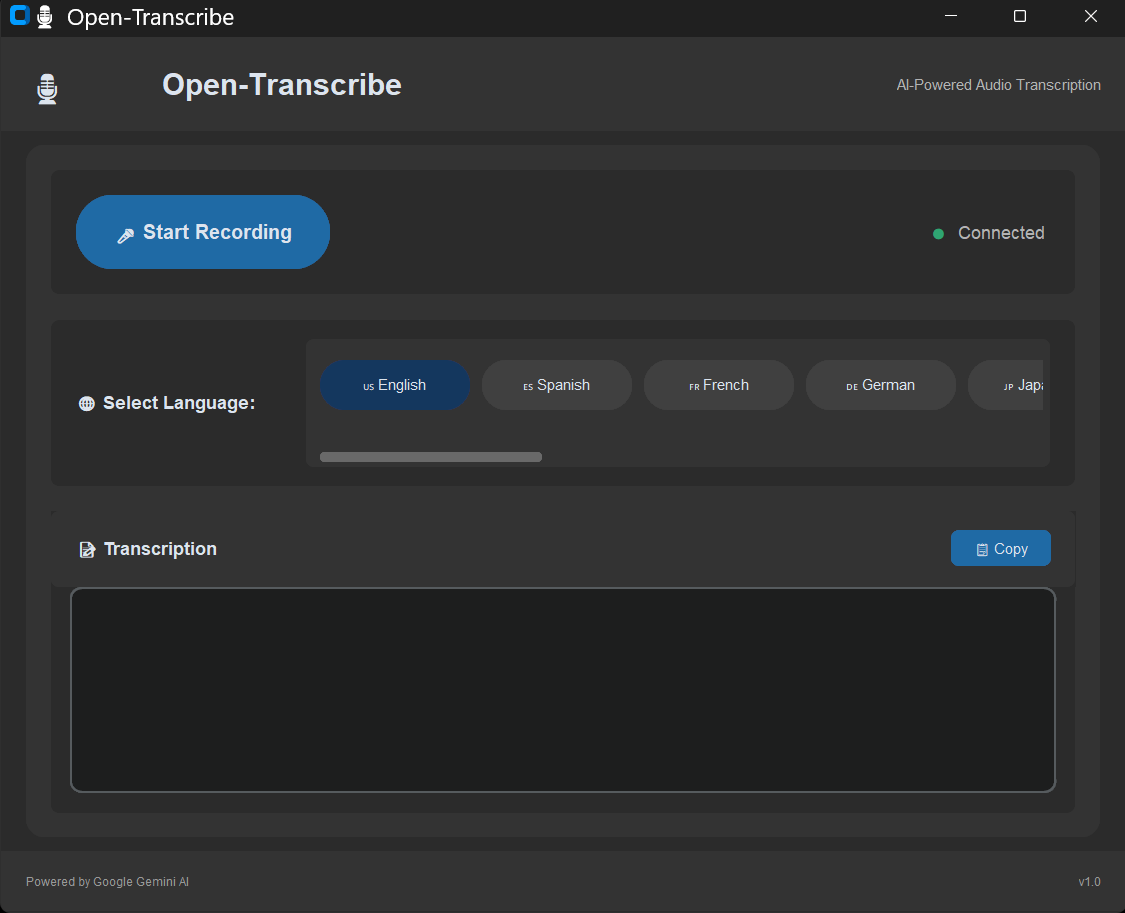
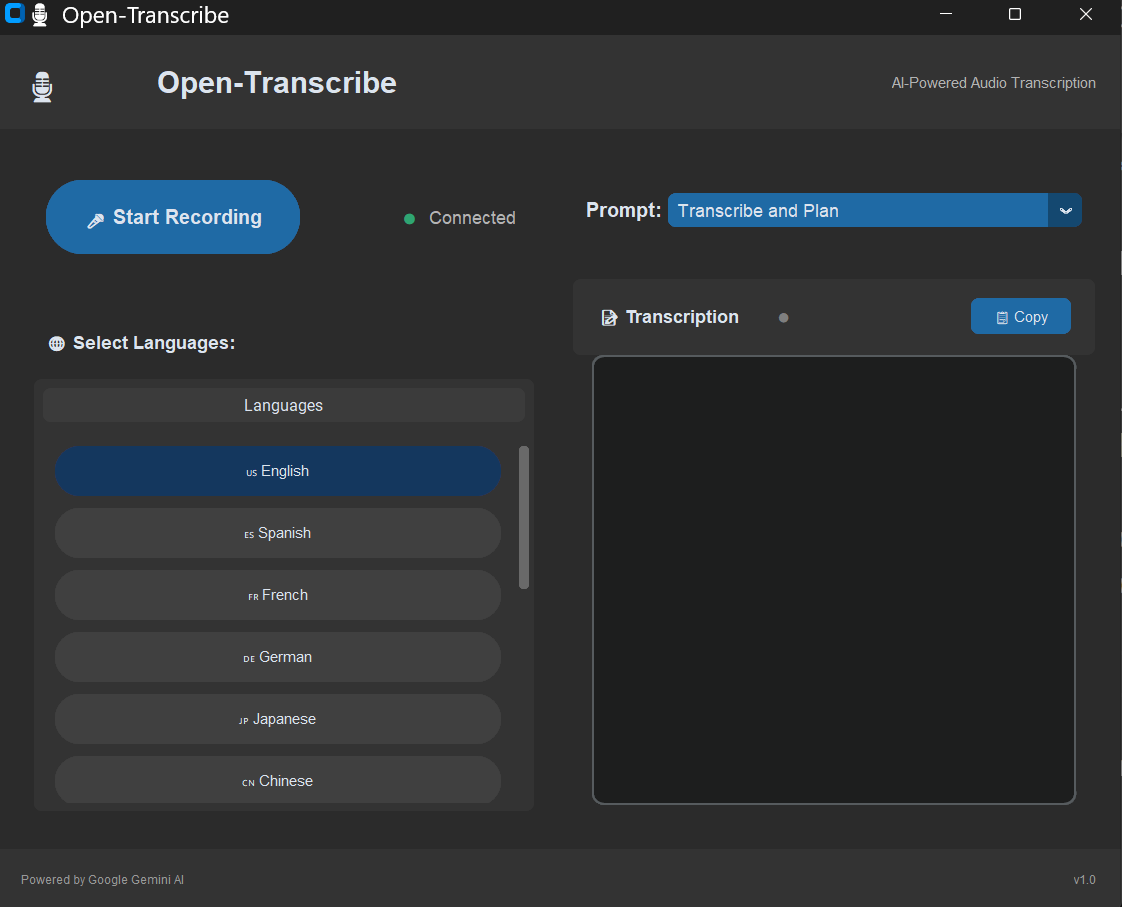
update

diff --git a/README.md b/README.md
@@ -8,11 +8,11 @@
 
 **We've supercharged your transcription experience!** 🎉
 
+🎯 **Dual Modes** - Choose between **Transcribe** for real-time transcription or **Transcribe and Plan** for transcription plus an organized version of the transcription in form of a plan.
+
 ✨ **Sleek New Interface** - Enjoy a fresh, modern design that's as beautiful as it is functional
 
-🌍 **Multi-Language Mastery** - Now supporting multiple languages! Transcribe in your preferred language with ease
-
-🎯 **Dual Modes** - Choose between **Live Transcribe** for real-time transcription or **Plan Mode** for scheduled recordings
+🌍 **Multi-Language Mastery** - Now supporting transcribe mix of languages!
 
 ⚡ **Faster, Smoother, Better** - Optimized performance for a seamless user experience
 
